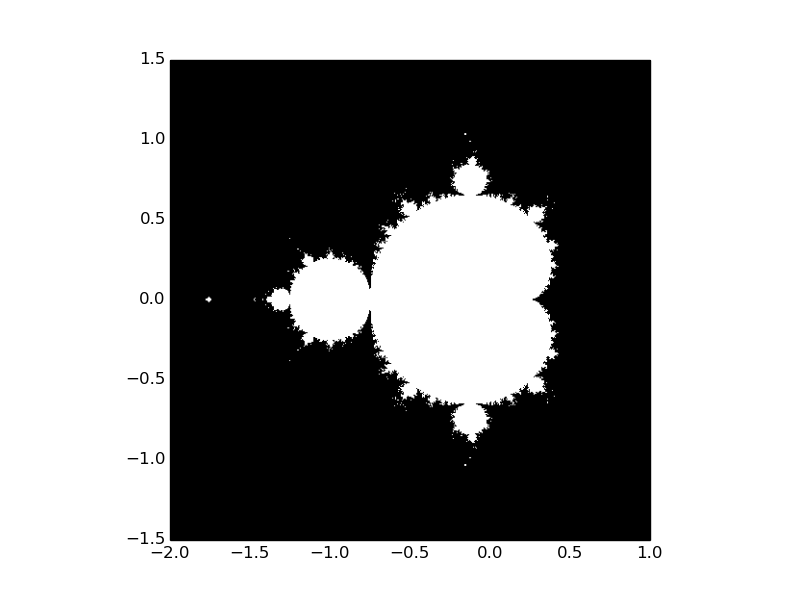
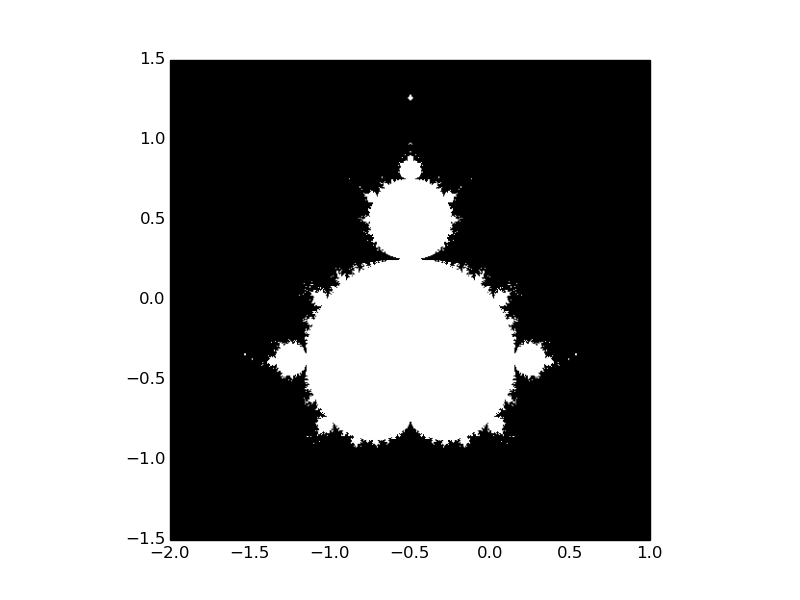
Fixed fancy indexing in Q3 and tansposed the boolean mask for the fractal plot.

Changed region(s): [[0.3125, 0.24, 0.7188, 0.75]]

diff --git a/ams889/Q3module.py b/ams889/Q3module.py
@@ -11,10 +11,6 @@ def q3output():
     absValArrayLessPt5=np.abs(arrayLessPt5) #take the absolute value of the difference between each element and .5 to establish the correct scale to use
     indicesArgsort=np.argsort(absValArrayLessPt5) #assign indices on every row with relation to closeness to 0
     bestIndex=indicesArgsort[:,0] #create the index vector which stores the result from our argsort index matrix
-    outputArray=[] #initialize output array
-    
-    for x in range(0,len(randomArray)):
-        indexedVal=randomArray[x][bestIndex[x]] #for each row in randomArray get the value corresponding to the index identified by argsort
-        outputArray.append(indexedVal) #store the results in the output array
-    
+    indexIncrement=np.arange(0,10) #build a basic incrementing index to use for row indexing
+    outputArray=randomArray[[indexIncrement,bestIndex]]
     print outputArray

diff --git a/ams889/Q4module.py b/ams889/Q4module.py
@@ -12,6 +12,6 @@ def q4output(nMax, threshold):
     fractal=gridSpace() #uses default parameters of xSamples=ySamples=500, xMin=-2, xMax=1, yMin=-1.5, yMax=1.5
     fractalIteration = fractal.iteration(nMax)
     boolMask = np.abs(fractalIteration) < threshold
-    plt.imshow(boolMask, extent=[-2, 1, -1.5, 1.5])
+    plt.imshow(boolMask.T, extent=[-2, 1, -1.5, 1.5])
     plt.gray()
     plt.savefig('mandelbrot.png')
